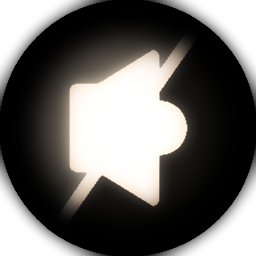
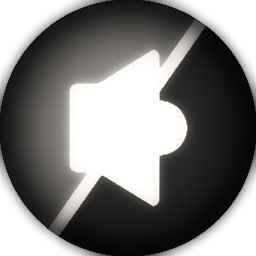
Кнопка звука вынесена в основное окно

diff --git a/OneQuestionFourAnswers/OneQuestionFourAnswers/MainWindow.xaml b/OneQuestionFourAnswers/OneQuestionFourAnswers/MainWindow.xaml
@@ -6,7 +6,7 @@
         xmlns:local="clr-namespace:OneQuestionFourAnswers"
         mc:Ignorable="d"
         Icon="VisualResources\WindowIcon.ico"
-        Title="MainWindow" Height="600" Width="725" MinHeight="550" MinWidth="650">
+        Title="MainWindow" Height="600" Width="725" MinHeight="550" MinWidth="650" Loaded="OnPageLoaded">
     <Window.Resources>
         <ResourceDictionary>
             <ResourceDictionary.MergedDictionaries>
@@ -21,6 +21,13 @@
                 <ProgressBar Grid.Column="1" IsIndeterminate="True"/>
             </Viewbox>
         </StatusBar>
-        <Frame Name="Main" NavigationUIVisibility="Hidden" Source="/OneQuestionFourAnswers;component/MainMenuPage.xaml" Background="{StaticResource BackgroundImage}"></Frame>
+        <Grid>
+            <Grid.ColumnDefinitions>
+                <ColumnDefinition></ColumnDefinition>
+                <ColumnDefinition></ColumnDefinition>
+            </Grid.ColumnDefinitions>
+            <Frame Name="Main" NavigationUIVisibility="Hidden" Source="/OneQuestionFourAnswers;component/MainMenuPage.xaml" Background="{StaticResource BackgroundImage}" Grid.ColumnSpan="2"></Frame>
+            <local:CircularButton VerticalAlignment="Bottom" HorizontalAlignment="Right" x:Name="SoundButton" Grid.Column="1" DisableBackgroundImage="{StaticResource SoundIconOff}" DisableBackgroundImageActive="{StaticResource SoundIconOffTap}" EnableBackgroundImage="{StaticResource SoundButtonIcon}" EnableBackgroundImageActive="{StaticResource SoundButtonIconActive}" Margin="0,0,30,20"></local:CircularButton>
+        </Grid>
     </DockPanel>
 </Window>

diff --git a/OneQuestionFourAnswers/OneQuestionFourAnswers/MainMenuPage.xaml b/OneQuestionFourAnswers/OneQuestionFourAnswers/MainMenuPage.xaml
@@ -39,7 +39,6 @@
                 <ColumnDefinition></ColumnDefinition>
             </Grid.ColumnDefinitions>
             <local:CircularButton Margin="30,0,0,20" HorizontalAlignment="Left" x:Name="InformationButton" Grid.Column="0" EnableBackgroundImage="{StaticResource InformationButtonIcon}" EnableBackgroundImageActive="{StaticResource InformationButtonIconActive}"></local:CircularButton>
-            <local:CircularButton Margin="0,0,30,8" HorizontalAlignment="Right" x:Name="SoundButton" Grid.Column="1" DisableBackgroundImage="{StaticResource SoundIconOff}" DisableBackgroundImageActive="{StaticResource SoundIconOffTap}" EnableBackgroundImage="{StaticResource SoundButtonIcon}" EnableBackgroundImageActive="{StaticResource SoundButtonIconActive}"></local:CircularButton>
         </Grid>
     </Grid>
 </Page>

diff --git a/OneQuestionFourAnswers/OneQuestionFourAnswers/GamePage.xaml b/OneQuestionFourAnswers/OneQuestionFourAnswers/GamePage.xaml
@@ -75,7 +75,6 @@
             <Image Source="\VisualResources\Images\Time.png" Height="50" Width="50" Margin="5"></Image>
             </Viewbox>
             <local:StrechTextBlock Grid.Column="3" HorizontalAlignment="Left" TextBlockText="Время"></local:StrechTextBlock>
-            <local:CircularButton HorizontalAlignment="Left" x:Name="SoundButton" Grid.Column="4" DisableBackgroundImage="{StaticResource SoundIconOff}" DisableBackgroundImageActive="{StaticResource SoundIconOffTap}" EnableBackgroundImage="{StaticResource SoundButtonIcon}" EnableBackgroundImageActive="{StaticResource SoundButtonIconActive}" Margin="0,0,30,20"></local:CircularButton>
         </Grid>
     </Grid>
 </Page>

diff --git a/OneQuestionFourAnswers/OneQuestionFourAnswers/InformationPage.xaml b/OneQuestionFourAnswers/OneQuestionFourAnswers/InformationPage.xaml
@@ -59,6 +59,5 @@
             </Viewbox>
         </Grid>
         <TextBlock Grid.Row="4" Style="{StaticResource TextBlockStyle}" FontSize="20" VerticalAlignment="Bottom" Text="Разработал: Разумов Юрий, МИСиС, 2017 год"></TextBlock>
-        <local:CircularButton Margin="0,0,30,20" HorizontalAlignment="Right" x:Name="SoundButton" Grid.Row="4" DisableBackgroundImage="{StaticResource SoundIconOff}" DisableBackgroundImageActive="{StaticResource SoundIconOffTap}" EnableBackgroundImage="{StaticResource SoundButtonIcon}" EnableBackgroundImageActive="{StaticResource SoundButtonIconActive}"></local:CircularButton>
     </Grid>
 </Page>

diff --git a/OneQuestionFourAnswers/OneQuestionFourAnswers/GamePage.xaml.cs b/OneQuestionFourAnswers/OneQuestionFourAnswers/GamePage.xaml.cs
@@ -39,7 +39,6 @@ namespace OneQuestionFourAnswers
         private void OnPageLoaded(object sender, RoutedEventArgs e)
         {
             BackButton.ControlButton.Click += BackButtonClick;
-            SoundButton.ControlButton.Click += ButtonClickSound;
             TimeButton.ControlButton.Click += ButtonClickTime;
             StatisticsButton.ControlButton.Click += ButtonClickStatistics;
             TwoAnswersButton.ControlButton.Click += ButtonClickTwoAnswers;
@@ -60,10 +59,7 @@ namespace OneQuestionFourAnswers
             TimeButton.DisableButton = !TimeButton.DisableButton;
             TimeButton.IsEnabled = false;
         }
-        private void ButtonClickSound(object sender, RoutedEventArgs e)
-        {
-            SoundButton.DisableButton = !SoundButton.DisableButton;
-        }
+
         private void AnswerButtonClick(object sender, RoutedEventArgs e)
         {
             NewRecordWindow nrw = new NewRecordWindow();

diff --git a/OneQuestionFourAnswers/OneQuestionFourAnswers/MainMenuPage.xaml.cs b/OneQuestionFourAnswers/OneQuestionFourAnswers/MainMenuPage.xaml.cs
@@ -26,10 +26,6 @@ namespace OneQuestionFourAnswers
             NavigationService ns = NavigationService.GetNavigationService(this);
             ns.Navigate(new Uri("InformationPage.xaml", UriKind.Relative));
         }
-        private void ButtonClickSound(object sender, RoutedEventArgs e)
-        {
-            SoundButton.DisableButton = !SoundButton.DisableButton;
-        }
         private void ButtonClickUpdate(object sender, RoutedEventArgs e)
         {
             (Window.GetWindow(this) as MainWindow).UpdateBar.Visibility = Visibility.Visible;
@@ -50,7 +46,6 @@ namespace OneQuestionFourAnswers
         private void OnPageLoaded(object sender, RoutedEventArgs e)
         {
             InformationButton.ControlButton.Click += ButtonClickInformation;
-            SoundButton.ControlButton.Click += ButtonClickSound;
         }
 
         private void HighscoreButton(object sender, RoutedEventArgs e)

diff --git a/OneQuestionFourAnswers/OneQuestionFourAnswers/InformationPage.xaml.cs b/OneQuestionFourAnswers/OneQuestionFourAnswers/InformationPage.xaml.cs
@@ -31,15 +31,10 @@ namespace OneQuestionFourAnswers
             NavigationService ns = NavigationService.GetNavigationService(this);
             ns.GoBack();
         }
-        private void ButtonClickSound(object sender, RoutedEventArgs e)
-        {
-            SoundButton.DisableButton = !SoundButton.DisableButton;
-        }
 
         private void OnPageLoaded(object sender, RoutedEventArgs e)
         {
             BackButton.ControlButton.Click += BackButtonClick;
-            SoundButton.ControlButton.Click += ButtonClickSound;
         }
     }
 }

diff --git a/OneQuestionFourAnswers/OneQuestionFourAnswers/MainWindow.xaml.cs b/OneQuestionFourAnswers/OneQuestionFourAnswers/MainWindow.xaml.cs
@@ -24,5 +24,15 @@ namespace OneQuestionFourAnswers
         {
             InitializeComponent();
         }
+
+        private void ButtonClickSound(object sender, RoutedEventArgs e)
+        {
+            SoundButton.DisableButton = !SoundButton.DisableButton;
+        }
+
+        private void OnPageLoaded(object sender, RoutedEventArgs e)
+        {
+            SoundButton.ControlButton.Click += ButtonClickSound;
+        }
     }
 }
